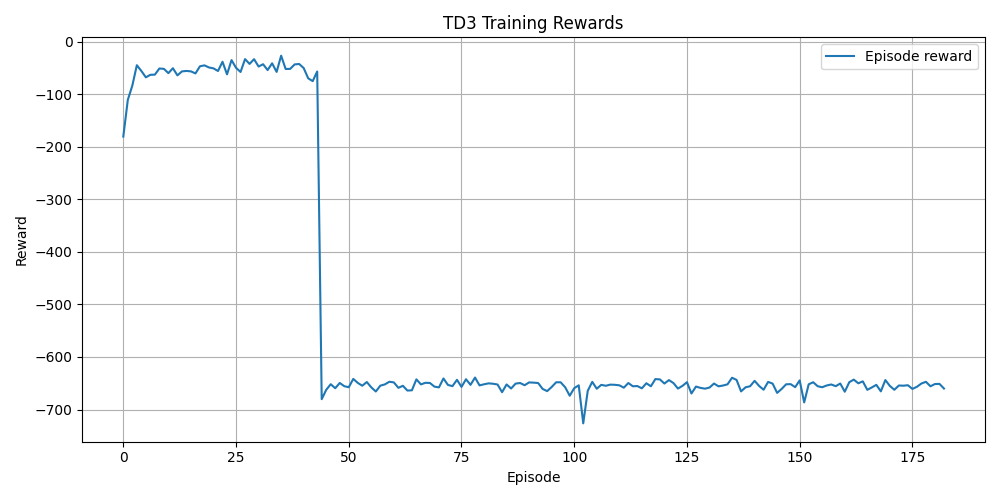
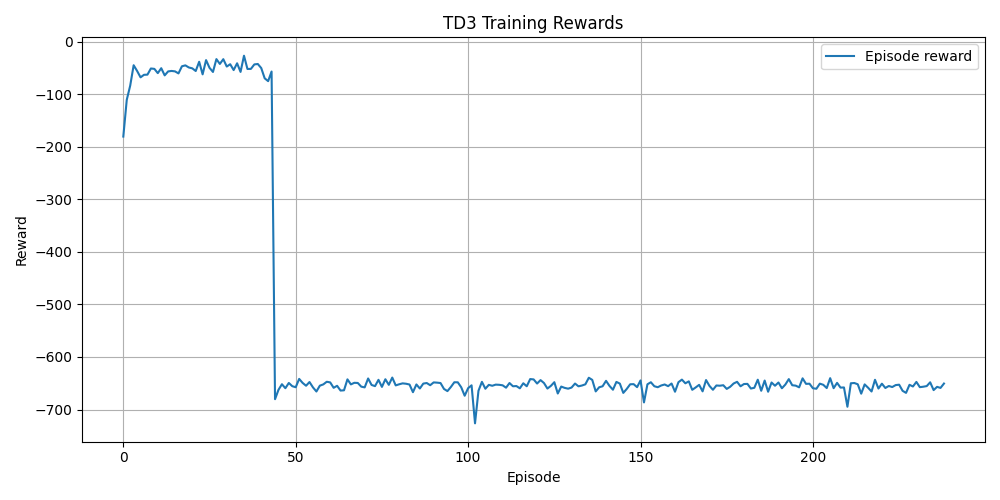
Modified the training parameters

diff --git a/train_grid_weights.py b/train_grid_weights.py
@@ -59,12 +59,11 @@ for wt in [1.0,2.0,3.0,4.0,5.0]:
 
         # Add noise for exploration
         n_actions = env.action_space.shape[0]
-        action_noise = NormalActionNoise(mean=np.zeros(n_actions), sigma=0.1 * np.ones(n_actions))
+        action_noise = NormalActionNoise(mean=np.zeros(n_actions), sigma=np.array([0.3,0.3]))
 
         # Generate timestamp for unique checkpoint folders
         timestamp = datetime.datetime.now().strftime("%Y%m%d_%H%M%S")
         
-
         # TD3 Model with LARGE network
         model = TD3(
             policy="MlpPolicy",
@@ -79,7 +78,7 @@ for wt in [1.0,2.0,3.0,4.0,5.0]:
             learning_rate=4e-5,
             batch_size=4096,
             train_freq=(4, "step"),
-            tau=0.002,
+            tau=0.0001,
             gamma=0.99,
             policy_delay=2,
             target_policy_noise=0.2,
@@ -126,7 +125,8 @@ for wt in [1.0,2.0,3.0,4.0,5.0]:
 
         model.learn(
             total_timesteps=3_000_000,
-            callback=callback
+            callback=callback,
+            log_interval=10
         )
 
         # Save final model
